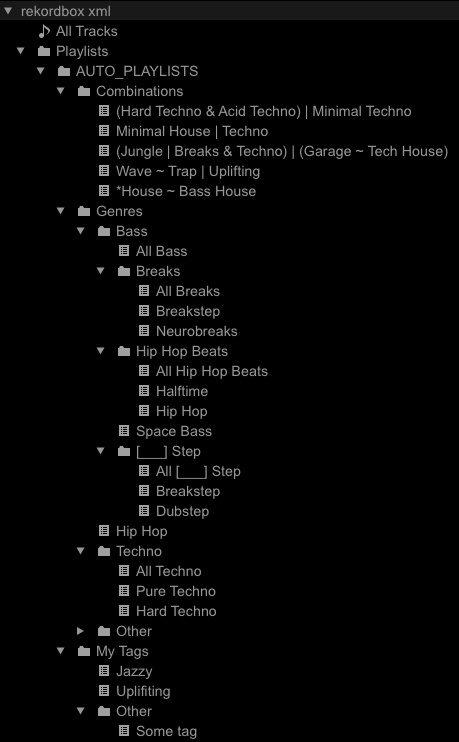
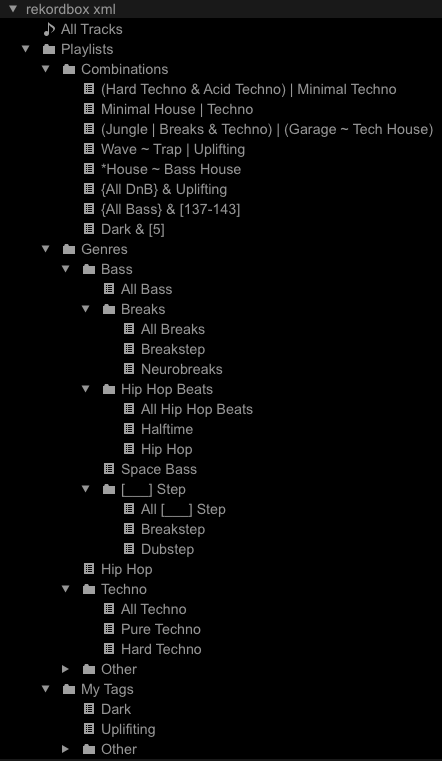
Combiner BPM, rating, and playlist selectors (#61)
Why?
Combiner playlists should support filtering on BPM and rating. Users
should be able to use pre-existing playlists.

Additionally:
If I want a playlist that is all my "dark" DnB, I'd effectively have to
write the following expression:
"(Darkstep | Jungle | Liquid Funk | Minimal DnB | Neurofunk |
Techstep) & Dark"
which, apart from being verbose, requires confirming the genres in
library to ensure I'm being inclusive.

Another way I could achieve this without code changes would be to,
in Rekordbox, highlight all the tracks in my All DnB playlist
generated by the GenreTagParser and assigning a new tag, e.g.
"DnB", and using that in an equivalent expression:
DnB & Dark

This solves both the aforementioned issues, but one should be careful
not to add too many unnecessary tags as it (a) adds complexity and (b)
may result in unexpected results when combining with things like
wildcards.

By supporting playlist names in boolean expressions, the natural and
arbitrary groupings established by the GenreTagParser and MyTagParser
structures can be leveraged. Additionally, any manualy playlist building
can be reused in the Combiner making this a powerful feature.

What?
The Combiner class initializer parses the config for playlists containing
special syntax denoting BPM, rating, and playlist selectors...tracks
included in these selectors can be fetched upon initializing and added
to the _tracks attribute at that time.

diff --git a/src/djtools/rekordbox/tag_parsers.py b/src/djtools/rekordbox/tag_parsers.py
@@ -12,10 +12,16 @@ defined as boolean algebra expressions which combine any of the tags generated
 by the other TagParsers ("Combiner" runs after the other TagParsers).
 """
 from abc import ABC, abstractmethod
+from collections import defaultdict
+import logging
 import re
 from typing import Any, Dict, List, Optional, Set, Tuple, Union
 
 import bs4
+from bs4 import BeautifulSoup
+
+
+logger = logging.getLogger(__name__)
 
 
 class TagParser(ABC):
@@ -141,7 +147,7 @@ class BooleanNode:
         """Evaluates the boolean algebraic subexpression.
 
         Args:
-            tracks: Map of tags to lists of (track_id, tags) tuples.
+            tracks: Map of tags to dicts of track_id: tags.
 
         Raises:
             RuntimeError: Boolean expressions must be formatted correctly.
@@ -186,7 +192,7 @@ class BooleanNode:
 
         Args:
             tag: Tag for indexing tracks.
-            tracks: Map of tags to lists of (track_id, tags) tuples.
+            tracks: Map of tags to dicts of track_id: tags.
 
         Returns:
             Set of track IDs for the provided tag.
@@ -208,6 +214,7 @@ class Combiner(TagParser):
     def __init__(
         self,
         parser_config: Dict[str, Union[str, List[Union[str, Dict]]]],
+        rekordbox_database: BeautifulSoup,
         **kwargs,
     ):
         """Constructor.
@@ -216,12 +223,151 @@ class Combiner(TagParser):
             parser_config: JSON playlist structure.
         """
         super().__init__(parser_config, **kwargs)
-        self._tracks = {}
+        self._tracks = defaultdict(lambda: defaultdict(list))
+        self._bpm_rating_lookup = {}
+        self._prescan(rekordbox_database)
         self._operators = {
             "&": set.intersection,
             "|": set.union,
             "~": set.difference,
         }
+    
+    def _prescan(self, rekordbox_database: BeautifulSoup):
+        """Populates track lookup using BPM, rating, and playlist selectors.
+
+        Boolean expressions may contain zero or more indicators for selectors:
+            * BPM and / or rating selectors: comma-delimited list of integers
+                or integer ranges (e.g. "137-143") enclosed in square brackets
+                (e.g. "[5, 120, 137-143]").
+            * Playlist selectors: exact matches to existing playlist name
+                enclosed in curly braces (e.g. "{All DnB}").
+            
+        Whether the numbers of a BPM / rating selector are interpreted as a BPM
+        or a rating depends on the value; if the 0 <= number <= 5, then it's
+        interpreted as a rating, if number > 5, then it's interpreted as a BPM.
+
+        If you want to make a Combiner playlist that has all tracks in a
+        playlist called "All DnB" that have a 5 star rating and are in the BPM
+        range [170, 172], this can be expressed as:
+            "{All DnB} & [5, 170-172]"
+
+        Args:
+            rekordbox_database: Parsed XML.
+
+        Raises:
+            LookupError: Playlists in expressions must exist in "XML_PATH".
+        """
+        # Get the sets of BPMs, ratings, and playlists in order to pre-populate
+        # the track lookup.
+        bpms, ratings, playlists = set(), set(), set()
+        for expression in self.parser_config.get("playlists", []): 
+            playlists.update(re.findall(r"(?<={)[^{}]*(?=})", expression))
+            bpm_rating_match = re.findall(r"(?<=\[)[^\[\]]*(?=\])", expression)
+            if not bpm_rating_match:
+                continue
+            _bpms, _ratings = self._parse_bpms_and_ratings(bpm_rating_match)
+            bpms.update(_bpms)
+            ratings.update(_ratings)
+
+        # Rekordbox stores rating values in the range [0, 255].
+        ratings_value_lookup = {
+            "0": "0",
+            "51": "1",
+            "102": "2",
+            "153": "3",
+            "204": "4",
+            "255": "5",
+        }
+
+        # Build out the lookup for BPMs and ratings.
+        values_set = bpms.union(ratings)
+        for track in rekordbox_database.find_all("TRACK"):
+            if not track.get("Location"):
+                continue
+
+            values = [
+                str(round(float(track["AverageBpm"]))),
+                ratings_value_lookup[track["Rating"]]
+            ]
+            for val in values:
+                if val in values_set:
+                    for value, tag in self._bpm_rating_lookup.items():
+                        if (
+                            (isinstance(value, str) and value == val) or
+                            (isinstance(value, tuple) and val in value)
+                        ):
+                            self._tracks[tag][track["TrackID"]] = []
+
+        # Build out the lookup for playlists.
+        for playlist_name in playlists:
+            try:
+                playlist = rekordbox_database.find_all(
+                    "NODE", {"Name": playlist_name}
+                )[0]
+            except IndexError:
+                raise LookupError(f"{playlist_name} not found") from LookupError
+
+            self._tracks[f"{{{playlist_name}}}"] = {
+                track["Key"]: [] for track in playlist.children
+                if str(track).strip()
+            }
+
+    def _parse_bpms_and_ratings(
+        self, bpm_rating_match: List[str]
+    ) -> List[Tuple]:
+        """Parses a string match of one or more BPM and / or rating selectors.
+
+        Args:
+            bpm_rating_match: List of BPM or rating strings.
+
+        Returns:
+            Tuple of BPM and rating lists.
+        """
+        bpms, ratings = [], []
+        for bpm_rating in bpm_rating_match:
+            parts = bpm_rating.split(",")
+            for part in parts:
+                number = _range = None
+                # If "part" is a digit, then it's an explicit BPM or rating to
+                # filter for.
+                if part.isdigit():
+                    number = int(part)
+                    if 0 <= number <= 5:
+                        ratings.append(str(number))
+                    elif number > 5:
+                        bpms.append(str(number))
+                    else:
+                        logger.error(
+                            "Bad BPM or rating number: {}".format(number)
+                        )
+                        continue
+                # If "part" is two digits separated by a "-", then it's a range
+                # of BPMs or ratings to filter for.
+                elif (
+                    len(part.split("-")) == 2 and
+                    all(x.isdigit() for x in part.split("-"))
+                ):
+                    _range = list(map(int, part.split("-")))
+                    _range = range(min(_range), max(_range) + 1)
+                    if all(0 <= x <= 5 for x in _range):
+                        ratings.extend(map(str, _range))
+                    elif all(x > 0 for x in _range):
+                        bpms.extend(map(str, _range))
+                    else:
+                        logger.error(
+                            "Bad BPM or rating number range: {}".format(part)
+                        )
+                else:
+                    logger.error(
+                        "Malformed BPM or rating filter part: {}".format(part)
+                    )
+                    continue
+                
+                self._bpm_rating_lookup[
+                    tuple(map(str, _range or [])) or str(number)
+                ] = f"[{part}]"
+                
+        return bpms, ratings
 
     def __call__(
         self, tracks: Dict[str, List[Tuple[str, List[str]]]]
@@ -234,7 +380,7 @@ class Combiner(TagParser):
         Returns:
             Dict mapping boolean expression to a set of track IDs.
         """
-        self._tracks = {k: dict(v) for k, v in tracks.items()}
+        self._tracks.update({k: dict(v) for k, v in tracks.items()})
         playlist_tracks = {
             expression: self._parse_boolean_expression(expression)
             for expression in self.parser_config.get("playlists", [])

diff --git a/src/djtools/rekordbox/rekordbox_playlist_builder.py b/src/djtools/rekordbox/rekordbox_playlist_builder.py
@@ -140,7 +140,9 @@ class PlaylistBuilder:
                 )
 
             parser = parser(
-                parser_config=config, pure_genre_playlists=pure_genre_playlists
+                parser_config=config,
+                pure_genre_playlists=pure_genre_playlists,
+                rekordbox_database=self._database,
             )
 
             # "Combiner" class used to assemble playlists by applying

diff --git a/setup.py b/setup.py
@@ -71,7 +71,7 @@ EXTRAS = {
 
 setup(
     name='dj_beatcloud',
-    version='2.3.0-beta6',
+    version='2.3.0-beta7',
     description='DJ Tools is a library for managing a collection of MP3 ' \
                 'and Rekordbox XML files.',
     long_description=LONG_DESCRIPTION,

diff --git a/src/djtools/rekordbox/README.md b/src/djtools/rekordbox/README.md
@@ -59,7 +59,10 @@ Here is an example `rekordbox_playlists.json`:
             "Minimal House | Techno",
             "(Jungle | Breaks & Techno) | (Garage ~ Tech House)",
             "Wave ~ Trap | Uplifting",
-            "*House ~ Bass House"
+            "*House ~ Bass House",
+            "{All DnB} & Uplifting",
+            "{All Bass} & [137-143]",
+            "Dark & [5]"
         ]
     },
     "MyTagParser": {
@@ -72,7 +75,7 @@ Here is an example `rekordbox_playlists.json`:
                     "Wave"
                 ]
             },
-            "Jazzy",
+            "Dark",
             "Uplifiting"
         ]
     },
